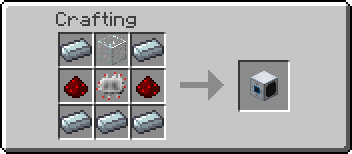
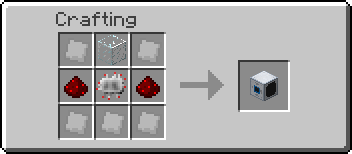
Update EU meter recipe. Closes #8

Changed region(s): [[0.1562, 0.7013, 0.4688, 0.8831], [0.1562, 0.2338, 0.2812, 0.4156], [0.375, 0.2597, 0.4688, 0.4156]]

diff --git a/src/main/java/com/vladmarica/energymeters/tile/TileEntityEnergyMeterEU.java b/src/main/java/com/vladmarica/energymeters/tile/TileEntityEnergyMeterEU.java
@@ -67,7 +67,7 @@ public class TileEntityEnergyMeterEU extends TileEntityEnergyMeterBase {
     if (!this.world.isRemote && this.addedToIC2EnergyNet) {
       MinecraftForge.EVENT_BUS.post(new EnergyTileUnloadEvent(this.storage));
       this.addedToIC2EnergyNet = false;
-      EnergyMetersMod.LOGGER.info("Remove EU meter {} from energy net", this.pos);
+      EnergyMetersMod.LOGGER.debug("Remove EU meter {} from energy net", this.pos);
     }
   }
 
@@ -75,7 +75,7 @@ public class TileEntityEnergyMeterEU extends TileEntityEnergyMeterBase {
     if (!this.world.isRemote && !this.addedToIC2EnergyNet) {
       MinecraftForge.EVENT_BUS.post(new EnergyTileLoadEvent(this.storage));
       this.addedToIC2EnergyNet = true;
-      EnergyMetersMod.LOGGER.info("Added EU meter {} from energy net", this.pos);
+      EnergyMetersMod.LOGGER.debug("Added EU meter {} from energy net", this.pos);
     }
   }
 

diff --git a/README.md b/README.md
@@ -38,9 +38,9 @@ Works with:
 
 - Energy Unit (EU) - *from [IndustrialCraft 2](https://www.curseforge.com/minecraft/mc-mods/industrial-craft)*
 
-![](https://i.imgur.com/ZXWTUb2.png)
+![](https://i.imgur.com/50Gwjch.png)
 
-Only available if IC2 is installed, of course.
+Only available if IC2 is installed, of course. When using the Classic profile, the recipe uses _Refined Iron_ instead of _Iron Plates_.
 
 Due to the way the IC2 EU system works, you cannot set a limit on EU meters.
 
